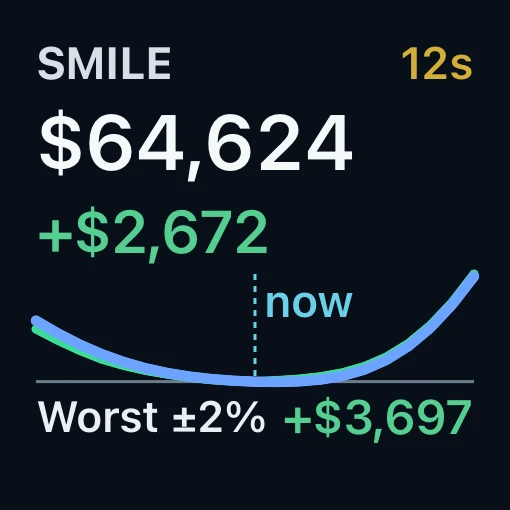
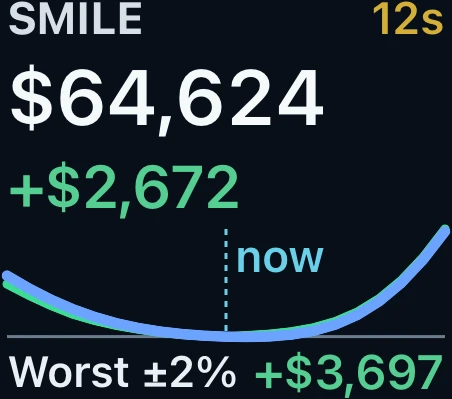
[skip ci] Trim Island/widget baked margins; assert visual gaps

Changed region(s): [[0.0, 0.391, 1.0, 1.0], [0.0, 0.0, 0.7124, 0.3609], [0.7743, 0.0, 0.9912, 0.1805]]

diff --git a/public/b/index.html b/public/b/index.html
@@ -231,11 +231,11 @@
           </article>
           <article class="bento-tile bento-island" id="island-widgets">
             <div class="bento-tiles-wrap tiles">
-              <img class="tile-island-compact" src="../assets/10-island-compact.webp" width="840" height="240" loading="lazy" alt="Compact Dynamic Island on the demo book.">
-              <img class="tile-island-expanded" src="../assets/11-island-expanded.webp" width="1206" height="480" loading="lazy" alt="Expanded Dynamic Island on the demo book.">
+              <img class="tile-island-compact" src="../assets/10-island-compact.webp" width="408" height="48" loading="lazy" alt="Compact Dynamic Island on the demo book.">
+              <img class="tile-island-expanded" src="../assets/11-island-expanded.webp" width="1156" height="120" loading="lazy" alt="Expanded Dynamic Island on the demo book.">
               <div class="tile-row">
-                <img class="tile-widget-small" src="../assets/12-widget-small.webp" width="510" height="510" loading="lazy" alt="Small widget on the demo book.">
-                <img class="tile-widget-medium" src="../assets/12-widget-medium.webp" width="1092" height="510" loading="lazy" alt="Medium widget on the demo book.">
+                <img class="tile-widget-small" src="../assets/12-widget-small.webp" width="452" height="399" loading="lazy" alt="Small widget on the demo book.">
+                <img class="tile-widget-medium" src="../assets/12-widget-medium.webp" width="1026" height="410" loading="lazy" alt="Medium widget on the demo book.">
               </div>
             </div>
             <h3>Dynamic Island &amp; widgets</h3>

diff --git a/public/index.html b/public/index.html
@@ -244,11 +244,11 @@
           </article>
           <article class="bento-tile bento-island" id="island-widgets">
             <div class="bento-tiles-wrap tiles">
-              <img class="tile-island-compact" src="assets/10-island-compact.webp" width="840" height="240" loading="lazy" alt="Compact Dynamic Island on the demo book.">
-              <img class="tile-island-expanded" src="assets/11-island-expanded.webp" width="1206" height="480" loading="lazy" alt="Expanded Dynamic Island on the demo book.">
+              <img class="tile-island-compact" src="assets/10-island-compact.webp" width="408" height="48" loading="lazy" alt="Compact Dynamic Island on the demo book.">
+              <img class="tile-island-expanded" src="assets/11-island-expanded.webp" width="1156" height="120" loading="lazy" alt="Expanded Dynamic Island on the demo book.">
               <div class="tile-row">
-                <img class="tile-widget-small" src="assets/12-widget-small.webp" width="510" height="510" loading="lazy" alt="Small widget on the demo book.">
-                <img class="tile-widget-medium" src="assets/12-widget-medium.webp" width="1092" height="510" loading="lazy" alt="Medium widget on the demo book.">
+                <img class="tile-widget-small" src="assets/12-widget-small.webp" width="452" height="399" loading="lazy" alt="Small widget on the demo book.">
+                <img class="tile-widget-medium" src="assets/12-widget-medium.webp" width="1026" height="410" loading="lazy" alt="Medium widget on the demo book.">
               </div>
             </div>
             <h3>Dynamic Island &amp; widgets</h3>
